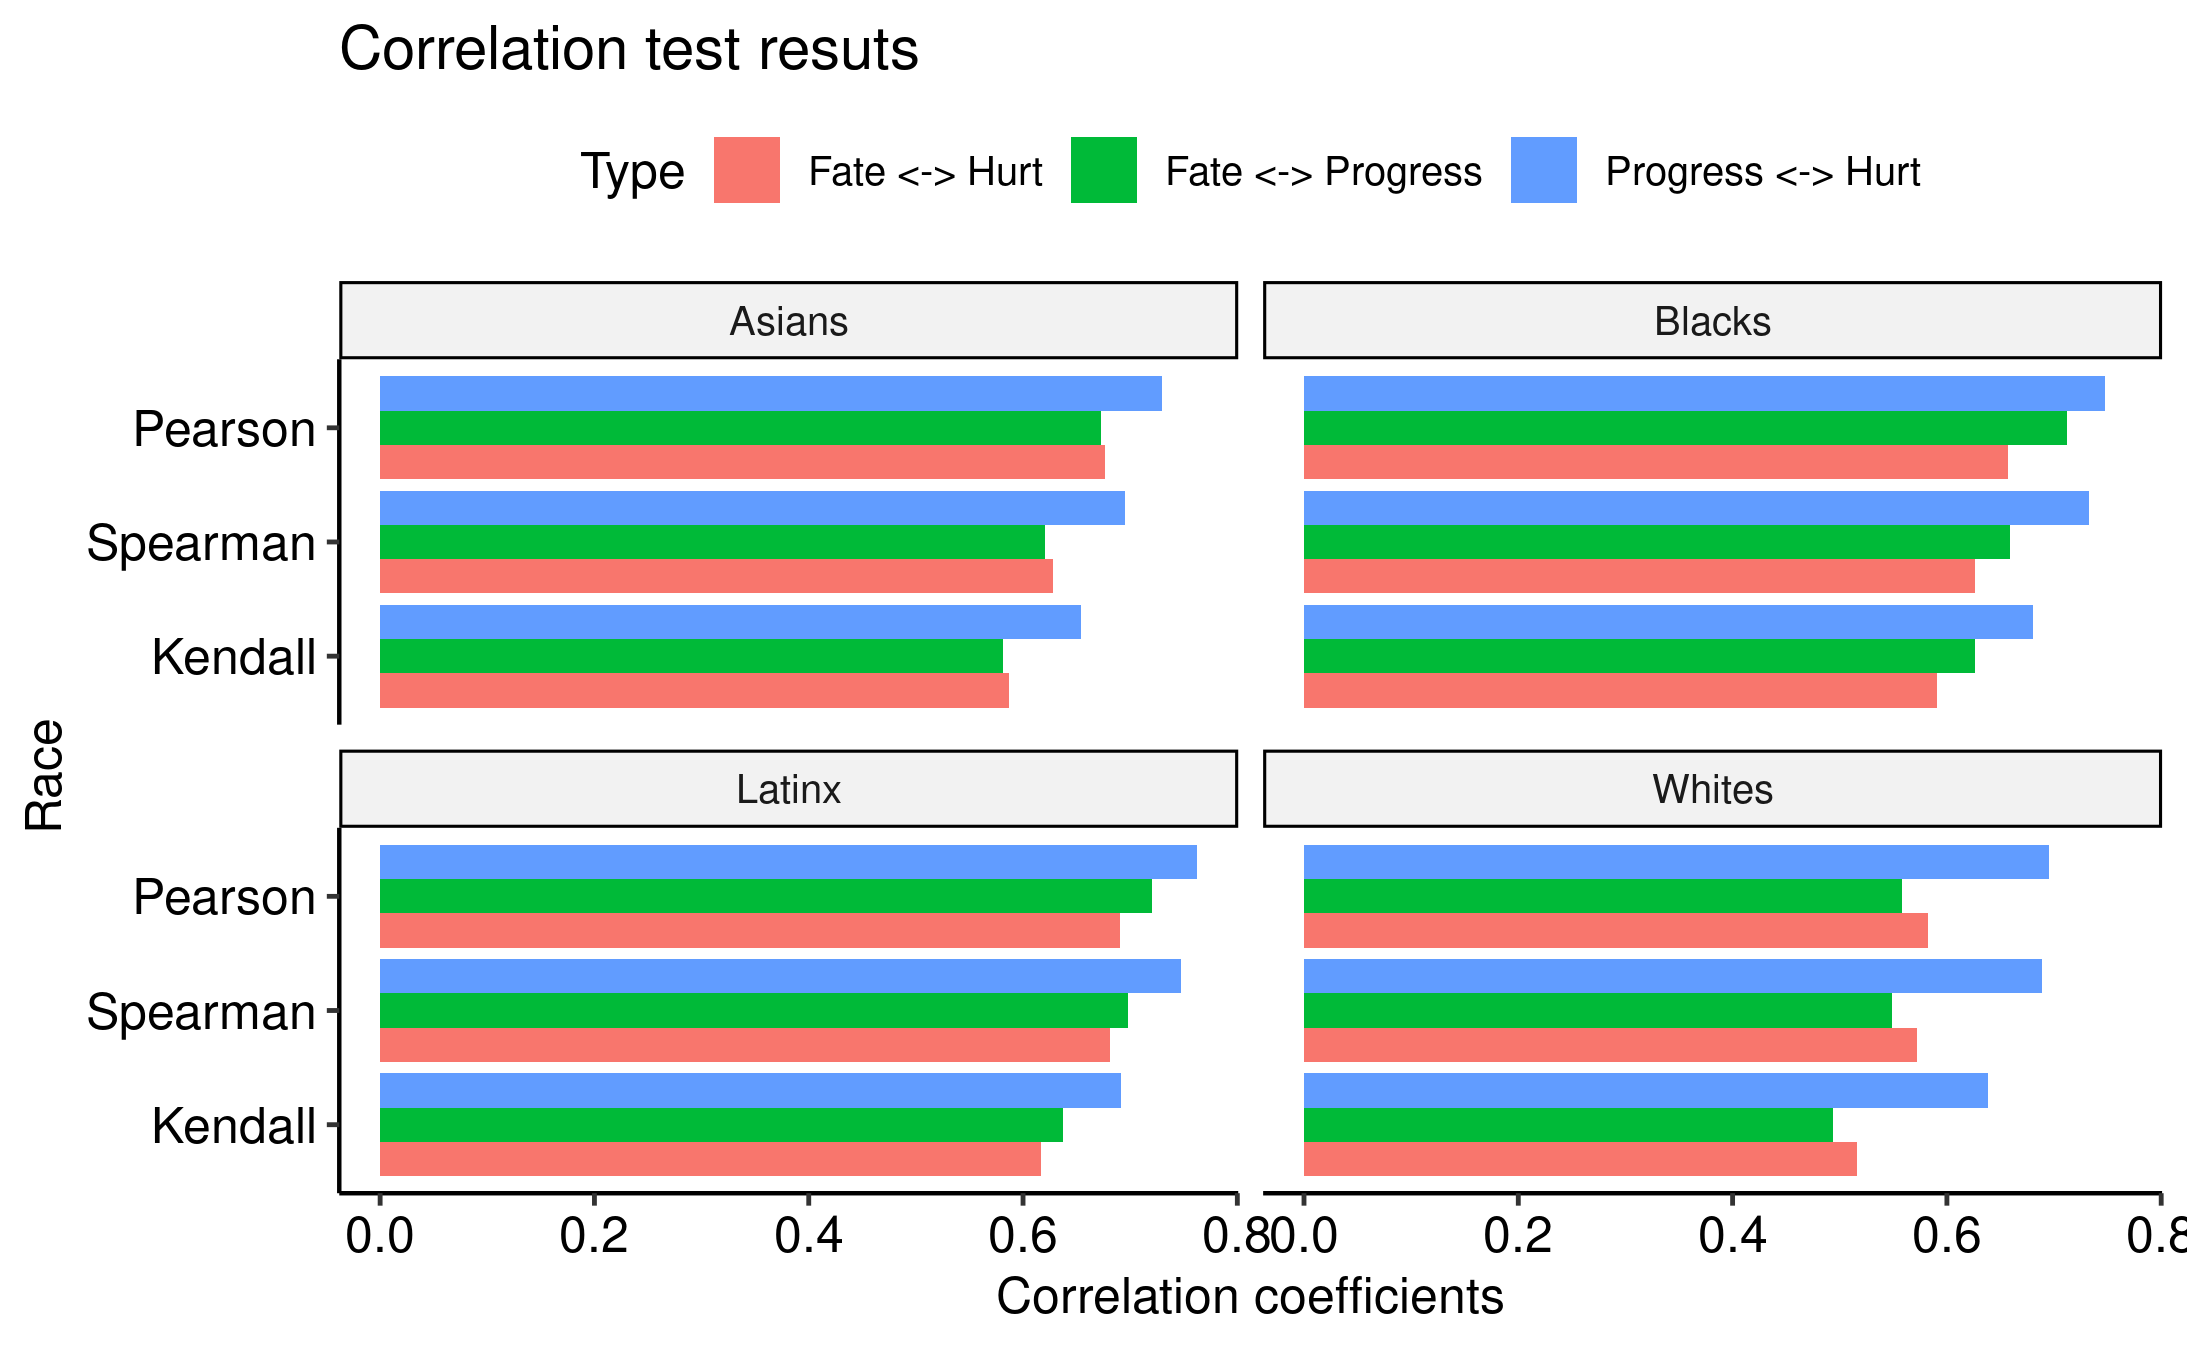
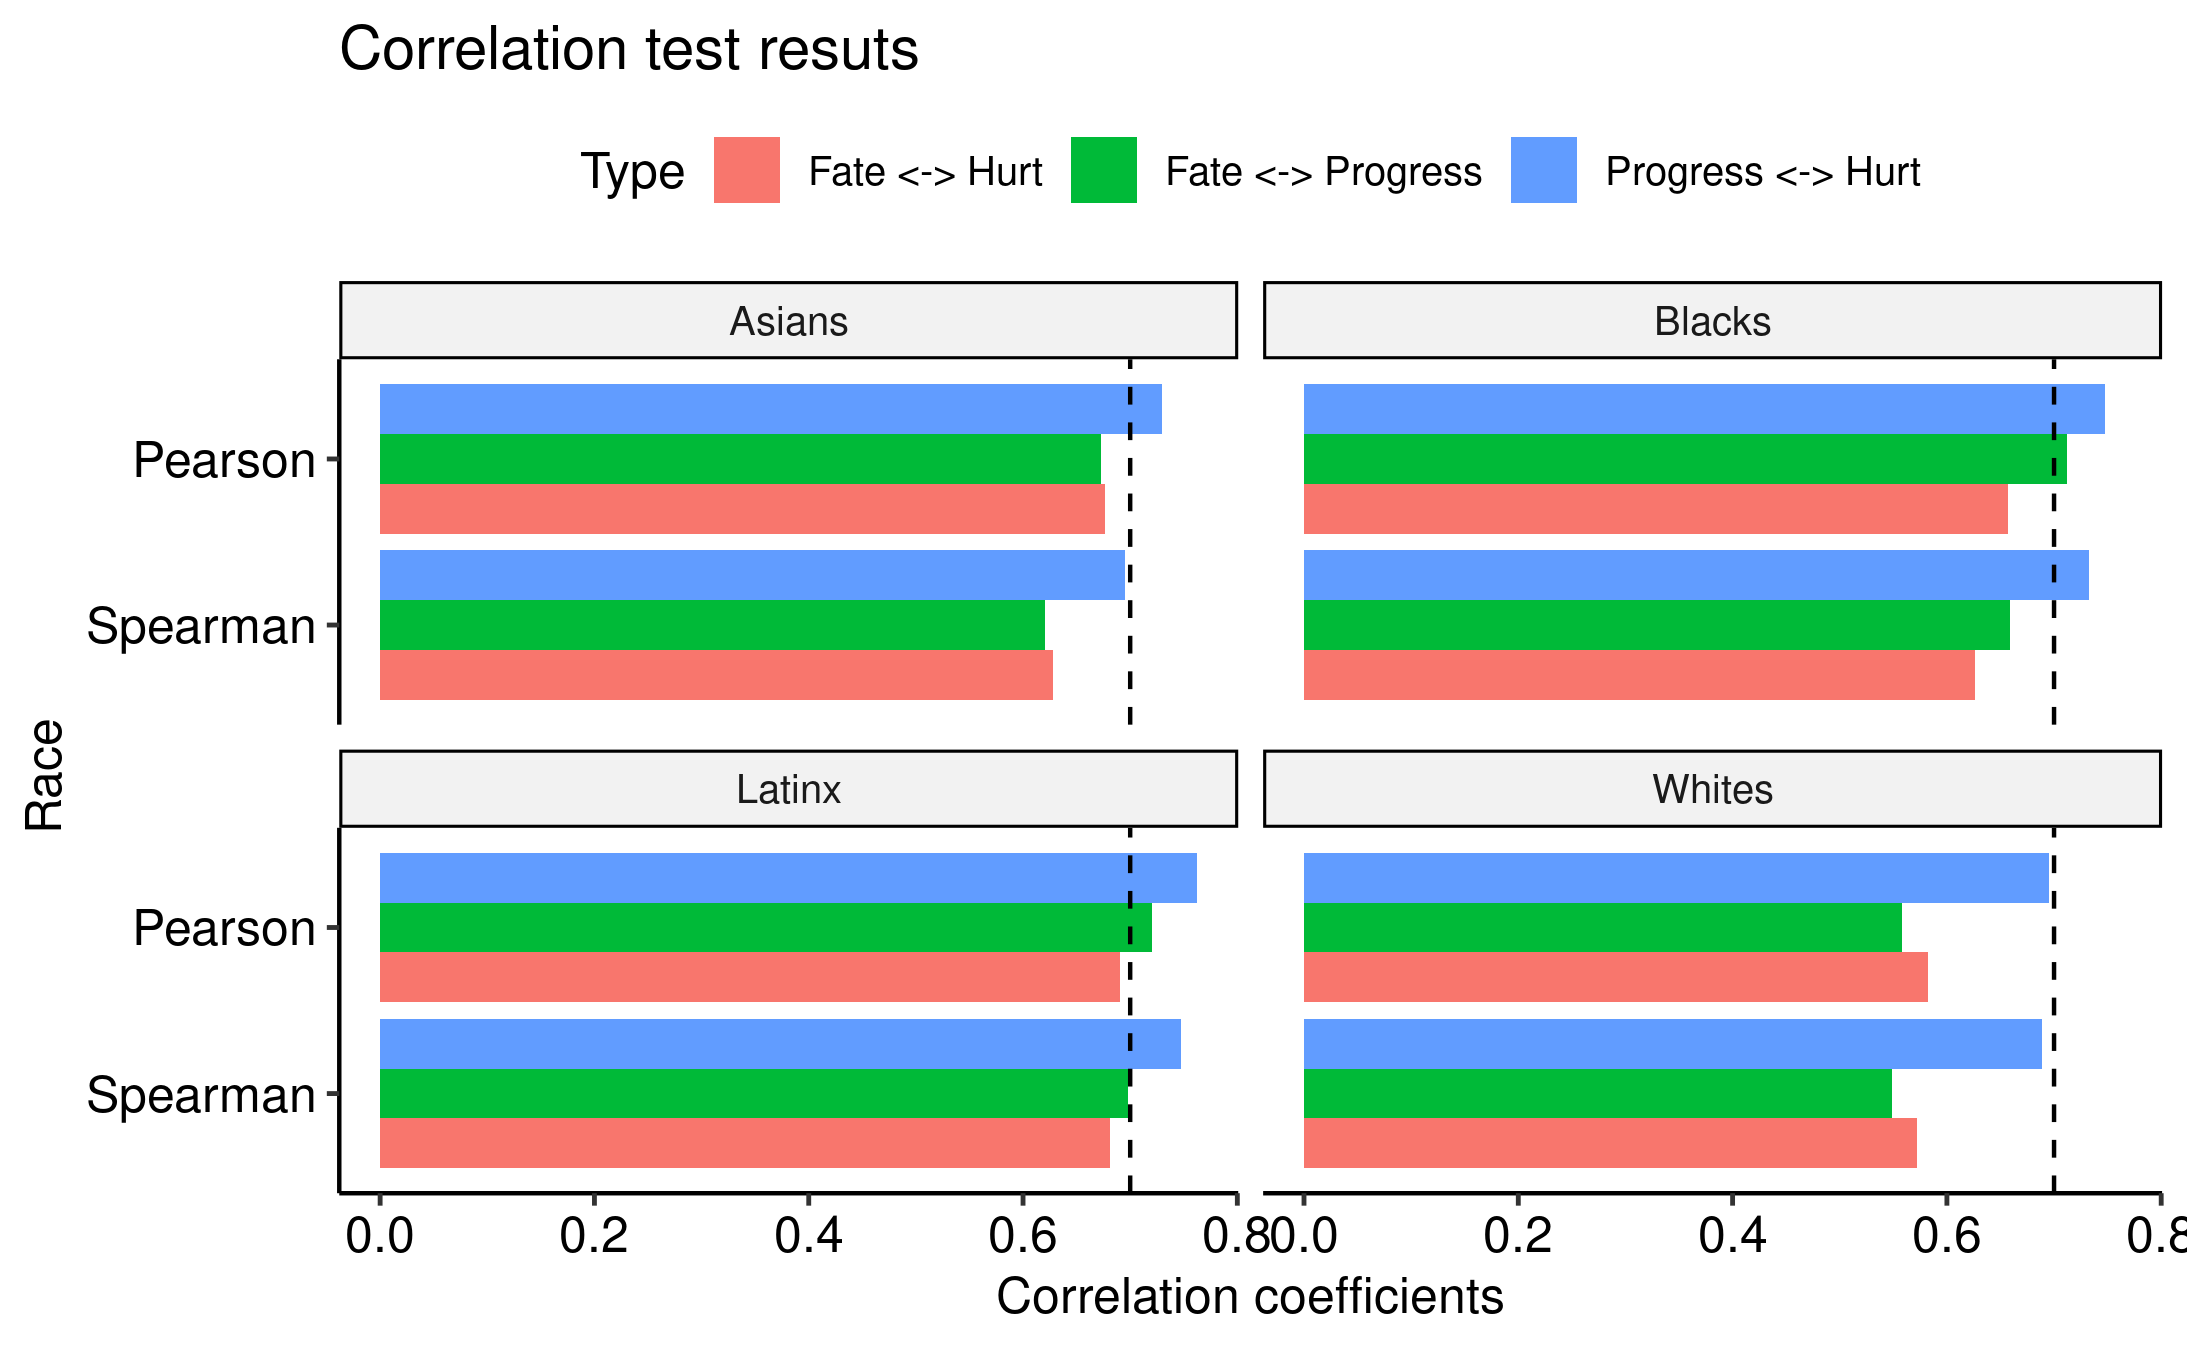
simplified but extended reliability tests

diff --git a/README.md b/README.md
@@ -55,7 +55,7 @@ In the rest of the document, I describe how I have **cleaned**, **analyzed**, an
 ![](https://github.com/jaeyk/validating-two-linked-fates/blob/master/outputs/descriptive_stat_plot.png)
 Figure 1. Mean and Standard Errors
 
-In Figure 1, the x-axis indicates the average score of responses to linked fate-related questions. The y-axis charts different racial groups. The mean describes the central tendency of the responses. The limitation is that it does not show how these data points are spread. For that reason, I also included the standard errors, which are indicated by the error bars. One side of the error bar indicates two standard errors. 
+In Figure 1, the x-axis indicates the average score of responses to linked fate-related questions. The y-axis charts different racial groups. The mean describes the central tendency of the responses. The limitation is that it does not show how these data points are spread. For that reason, I also included the standard errors, which are indicated by the error bars. One side of the error bar indicates two standard errors.
 
 Figure 1 clearly demonstrates how the use of a different measure for linked fate yields a different level of response. Overall, the standard linked fate question drew the strongest expressed support for linked fate. On average, linked progress scored higher than linked hurt across all racial groups, including African Americans. These results do not necessarily mean that Dawson's theory is wrong because the data also provides evidence for the presence of linked hurt. However, the theory has failed to include the importance of linked progress mechanisms and its prevalence.
 
@@ -70,7 +70,7 @@ The pattern for the responses to the linked fate questions among African America
 
 However, the same respondents became more skeptical when they were asked about the specific connection between their group and individual utility. We can see similar patterns across other racial groups, with white respondents’ answers representing an extreme example. In that case, the respondents began to disagree with the idea of white group consciousness more than they agreed with it.
 
-#### Correlation tests
+#### Reliability tests
 
 As the next step, I examined the correlation between the standard and nobel linked fate measures. The theory predicts that the responses of the standard linked fate measure should covary more closely with the responses of the linked hurt measure than with those of the linked progress measure. This hypothesis was not true across all racial groups except whites, where the correlation coefficients between these two relationships were quite close.
 
@@ -79,26 +79,17 @@ I calculated the correlation coefficients using four different methods, as these
 ![](https://github.com/jaeyk/validating-two-linked-fates/blob/master/outputs/cor_coeffs_plot.png)
 Figure 3. Correlation tests results
 
-#### Reliability tests
-
-The other necessary step was checking reliability. Perhaps, the differences in responses in these three linked fate questions arose by chance. The questions were all related and their wording was similar. Thus, this was a legitimate concern. I addressed this problem by calculating Conger's kappa. Conger's kappa is a generalized version of Cohen's kappa and shows whether the raters have a perfect agreement (=1) or if their agreement is entirely a fluke (=0). This technique is often used to test the reliability of raters. Here, I employed this method to determine whether similarities in the responses of these three linked fate questions occurred by chance.
-
-In Figure 4, the y-axis indicates Conger's kappa statistic, and the x-axis plots different racial groups. The top panel shows that the reliability score for whites is far lower than that of other groups. The bottom panel shows that weighting makes no difference. All kappa statistics are between 0.36 and 0.474.
-
-![](https://github.com/jaeyk/validating-two-linked-fates/blob/master/outputs/reliability_tests_plot.png)
-Figure 4. Correlation tests results
-
 #### Difference of means test
 
 Finally, I would like to revisit Figure 1 and stress the extent to which using the standard linked fate question creates more positive responses compared to the more specific question. Here, the left panel (Hurt - Fate) shows the mean difference between the responses of the linked hurt question and those of the standard linked fate question. Similarly, the right panel (Progress - Fate) displays the mean difference between the responses of the linked progress question and those of the standard linked fate question. The x-axis charts different racial groups. The y-axis indicates the difference in means. In both cases, it is clear that using a specific question decreases the ratio of positive responses. The ratio decreases faster in the case of the linked hurt than that of the linked hurt question. In that regard, white respondents showed the most extreme tendency.
 
 ![](https://github.com/jaeyk/validating-two-linked-fates/blob/master/outputs/diff_in_means_plot.png)
-Figure 5. The difference in means test results
+Figure 4. The difference in means test results
 
 #### Regression analysis [TBD]
 
 ![](https://github.com/jaeyk/validating-two-linked-fates/blob/master/outputs/ols_coeffs.png)
-Figure 6. OLS estimates
+Figure 5. OLS estimates
 
 #### Concluding remarks
 
